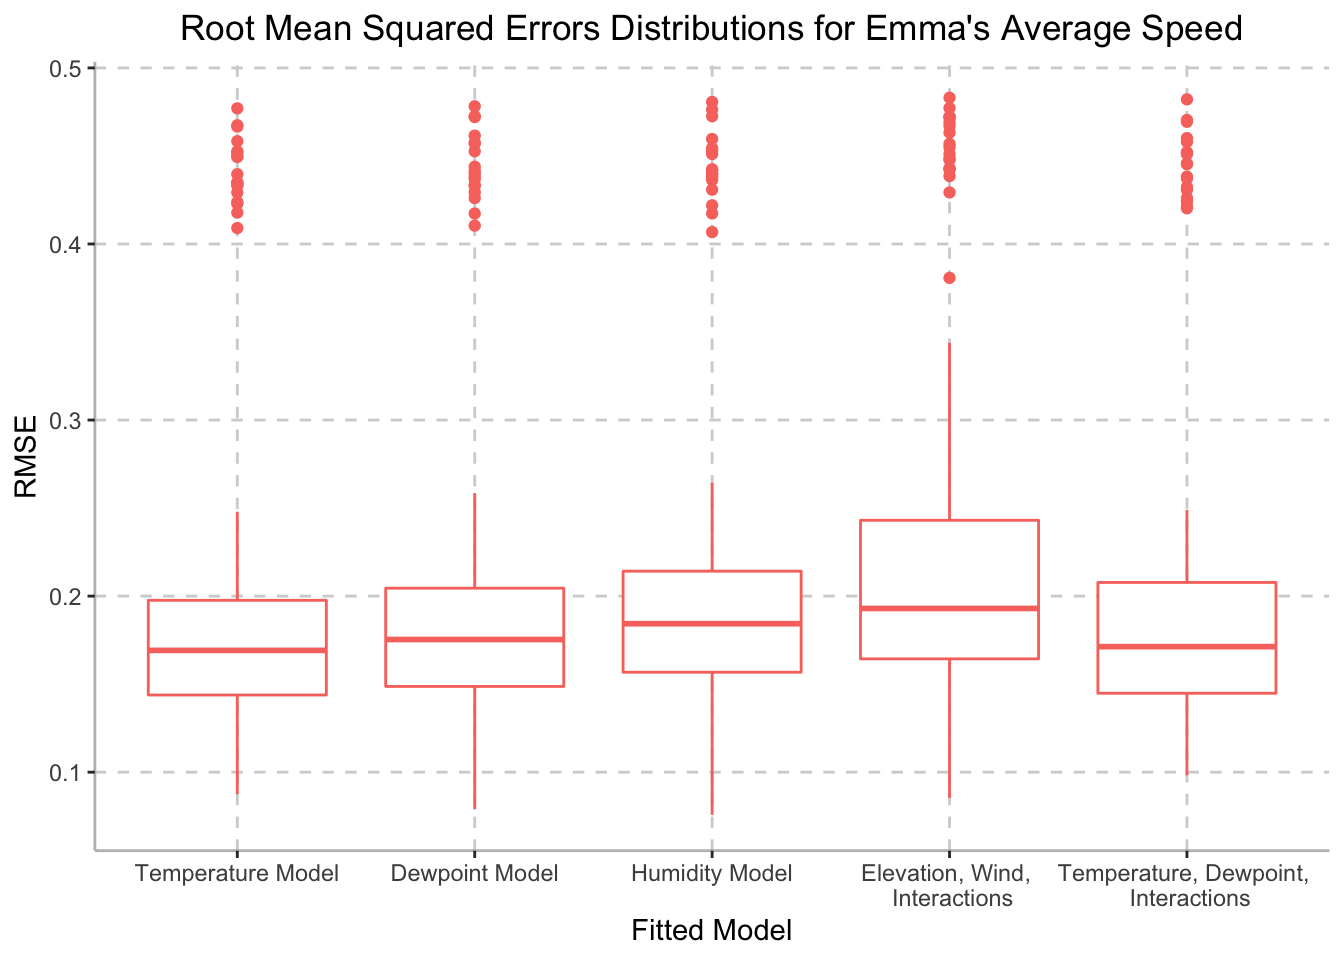
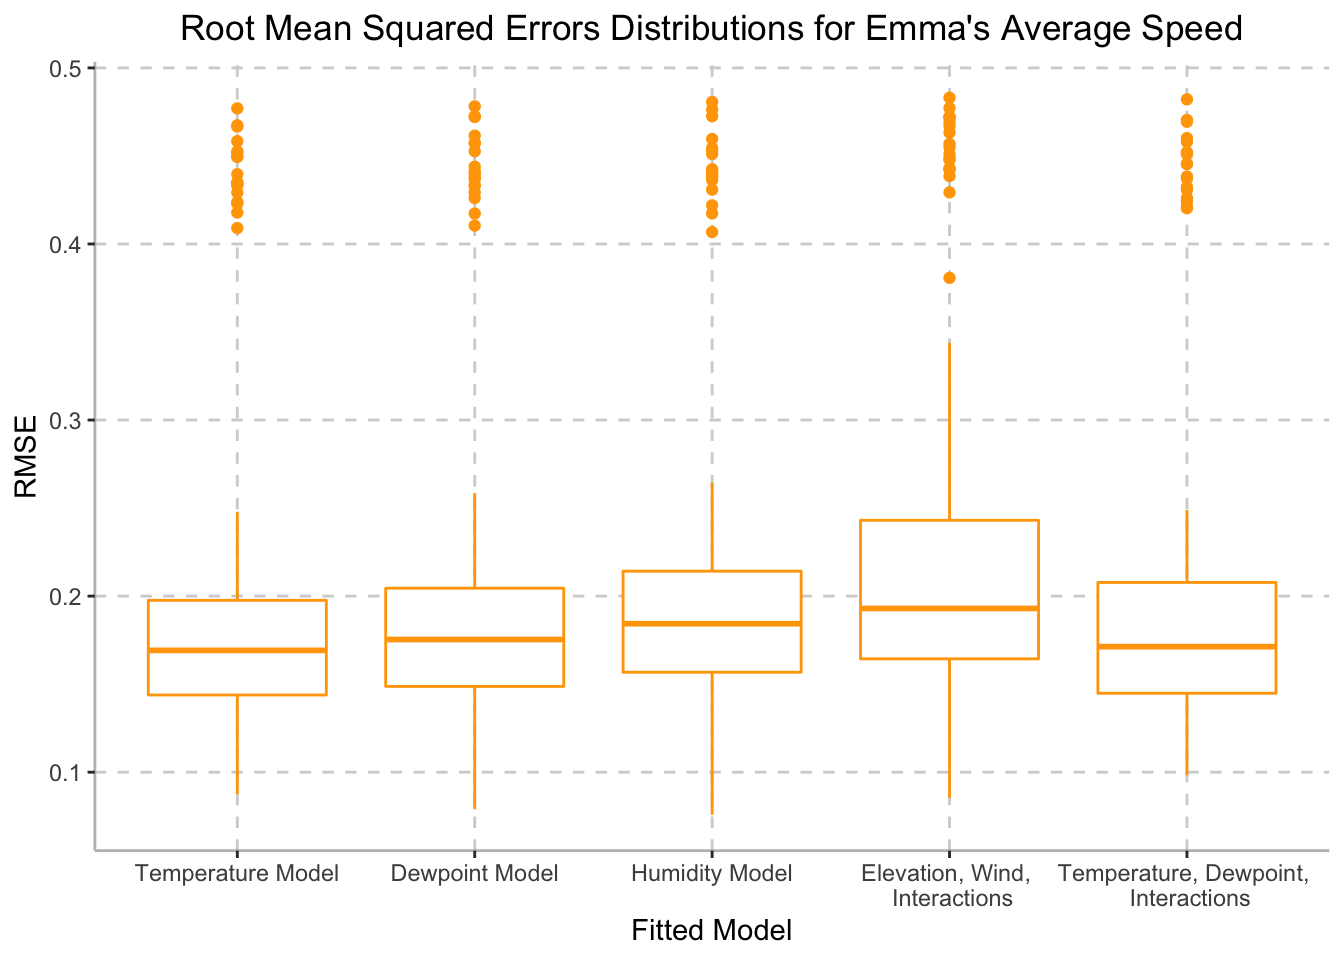
color updates

diff --git a/descriptive_stats.html b/descriptive_stats.html
@@ -443,7 +443,21 @@ tidy_training =
   select(activity_id, date, time, distance_km, elapsed_time_min, max_speed, average_speed, max_heart_rate, average_heart_rate, relative_effort, everything()) %&gt;% 
   filter(date != &quot;2022-03-31&quot;, 
          date != &quot;2022-04-03&quot;)</code></pre>
-<p>Loading and Cleaning the Data</p>
+<p>In order to display Emma’s progress throughout the NYC Marathon an
+interactive map was created. Utilizing data from the ‘marathon_day’ data
+set, cleaning began with converting the distance measurement from
+kilometers to miles, in order to best display the race. From this, each
+observation was grouped by mileage (1-26), with a Start (Mile 0) and
+Finish (Mile 26.6) observation being added as well. Variables
+‘position_longitude’ and ‘position_latitude’ were recoded to ‘longitude’
+and ‘latitude’ within the data set. A new data set ‘marathon_speed’ was
+generated in order to group all observations based on mile as well as
+convert speed from its initial unit of meters per second to miles per
+hour. The data was then aggregated in order to create averages for each
+of Emma’s mile statistics such as Speed, Heart Rate, Cadence, as well as
+Altitude. Leaflet was then used to display all mile markers along the
+26.6 Mile route, in addition to a pop-up that includes Emma’s summary
+statistics for each running stint of the marathon.</p>
 <pre class="r"><code>marathon_day &lt;- read_csv(&quot;activities/marathon_day.csv&quot;)
 
 marathon_day =
@@ -498,23 +512,9 @@ marathon_geo %&gt;%
 #Aggregate Data
 agg = aggregate(marathon_speed,
                 by = list(marathon_geo$group),
-                FUN = mean)</code></pre>
-<p>In order to display Emma’s progress throughout the NYC Marathon an
-interactive map was created. Utilizing data from the ‘marathon_day’ data
-set, cleaning began with converting the distance measurement from
-kilometers to miles, in order to best display the race. From this, each
-observation was grouped by mileage (1-26), with a Start (Mile 0) and
-Finish (Mile 26.6) observation being added as well. Variables
-‘position_longitude’ and ‘position_latitude’ were recoded to ‘longitude’
-and ‘latitude’ within the data set. A new data set ‘marathon_speed’ was
-generated in order to group all observations based on mile as well as
-convert speed from its initial unit of meters per second to miles per
-hour. The data was then aggregated in order to create averages for each
-of Emma’s mile statistics such as Speed, Heart Rate, Cadence, as well as
-Altitude. Leaflet was then used to display all mile markers along the
-26.6 Mile route, in addition to a pop-up that includes Emma’s summary
-statistics for each running stint of the marathon.</p>
-<pre class="r"><code>leaflet() %&gt;% 
+                FUN = mean)
+
+leaflet() %&gt;% 
   addTiles() %&gt;% 
   addCircleMarkers(data = agg,
              lng = ~longitude,

diff --git a/backup.html b/backup.html
@@ -1003,7 +1003,7 @@ cv_df %&gt;%
     values_to = &quot;rmse&quot;, 
     names_prefix = &quot;rmse_&quot;) %&gt;% 
   ggplot(aes(x = model, y = rmse, color = c(&quot;#FFA500&quot;))) +
-  geom_boxplot() + 
+  geom_boxplot(color = c(&quot;#FFA500&quot;)) + 
   labs(
     title = &quot;Root Mean Squared Errors Distributions for Emma&#39;s Average Speed&quot;, 
     x = &quot;Fitted Model&quot;, 
@@ -1093,7 +1093,7 @@ cv_df %&gt;%
     values_to = &quot;rmse&quot;, 
     names_prefix = &quot;rmse_&quot;) %&gt;% 
   ggplot(aes(x = model, y = rmse, color = c(&quot;#FFA500&quot;))) +
-  geom_boxplot() + 
+  geom_boxplot(color = c(&quot;#FFA500&quot;)) + 
   labs(
     title = &quot;Root Mean Squared Errors Distributions for Emma&#39;s Relative Effort&quot;, 
     x = &quot;Fitted Model&quot;, 

diff --git a/models_rel_effort.html b/models_rel_effort.html
@@ -479,7 +479,7 @@ cv_df %&gt;%
     values_to = &quot;rmse&quot;, 
     names_prefix = &quot;rmse_&quot;) %&gt;% 
   ggplot(aes(x = model, y = rmse, color = c(&quot;#FFA500&quot;))) +
-  geom_boxplot() + 
+  geom_boxplot(color = c(&quot;#FFA500&quot;)) + 
   labs(
     title = &quot;Root Mean Squared Errors Distributions for Emma&#39;s Relative Effort&quot;, 
     x = &quot;Fitted Model&quot;, 

diff --git a/models_speed.html b/models_speed.html
@@ -495,7 +495,7 @@ cv_df %&gt;%
     values_to = &quot;rmse&quot;, 
     names_prefix = &quot;rmse_&quot;) %&gt;% 
   ggplot(aes(x = model, y = rmse, color = c(&quot;#FFA500&quot;))) +
-  geom_boxplot() + 
+  geom_boxplot(color = c(&quot;#FFA500&quot;)) + 
   labs(
     title = &quot;Root Mean Squared Errors Distributions for Emma&#39;s Average Speed&quot;, 
     x = &quot;Fitted Model&quot;, 
